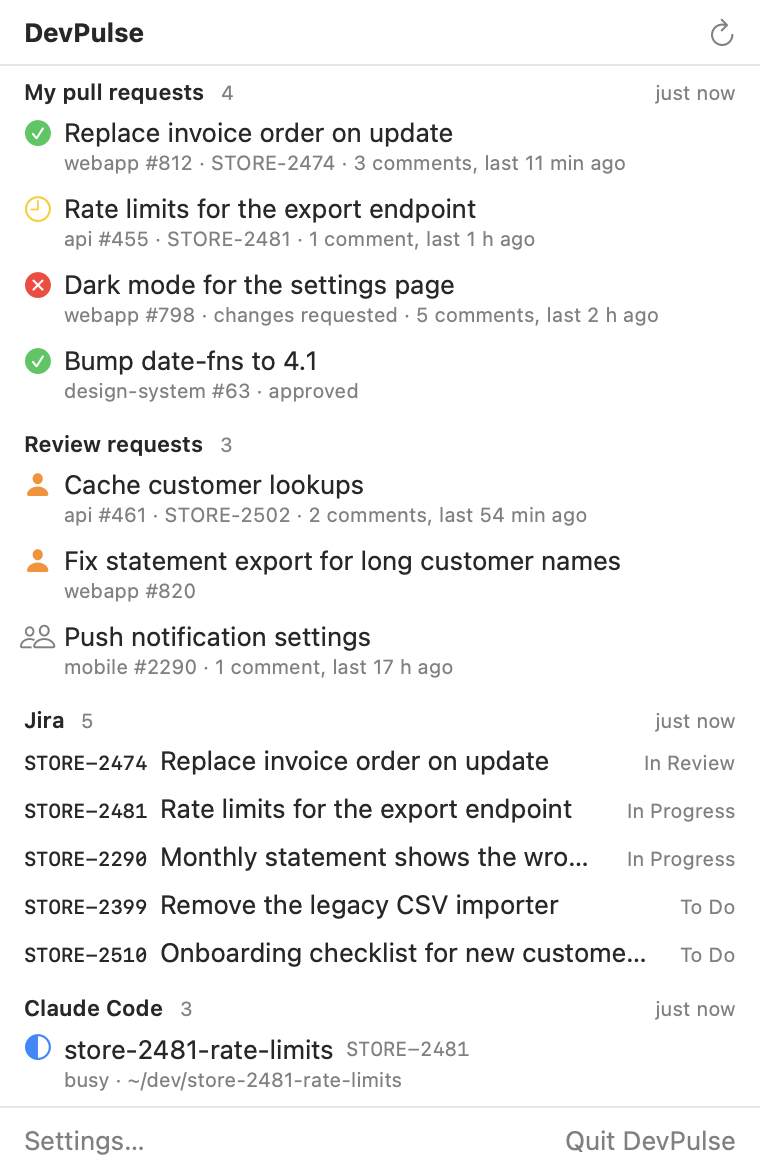
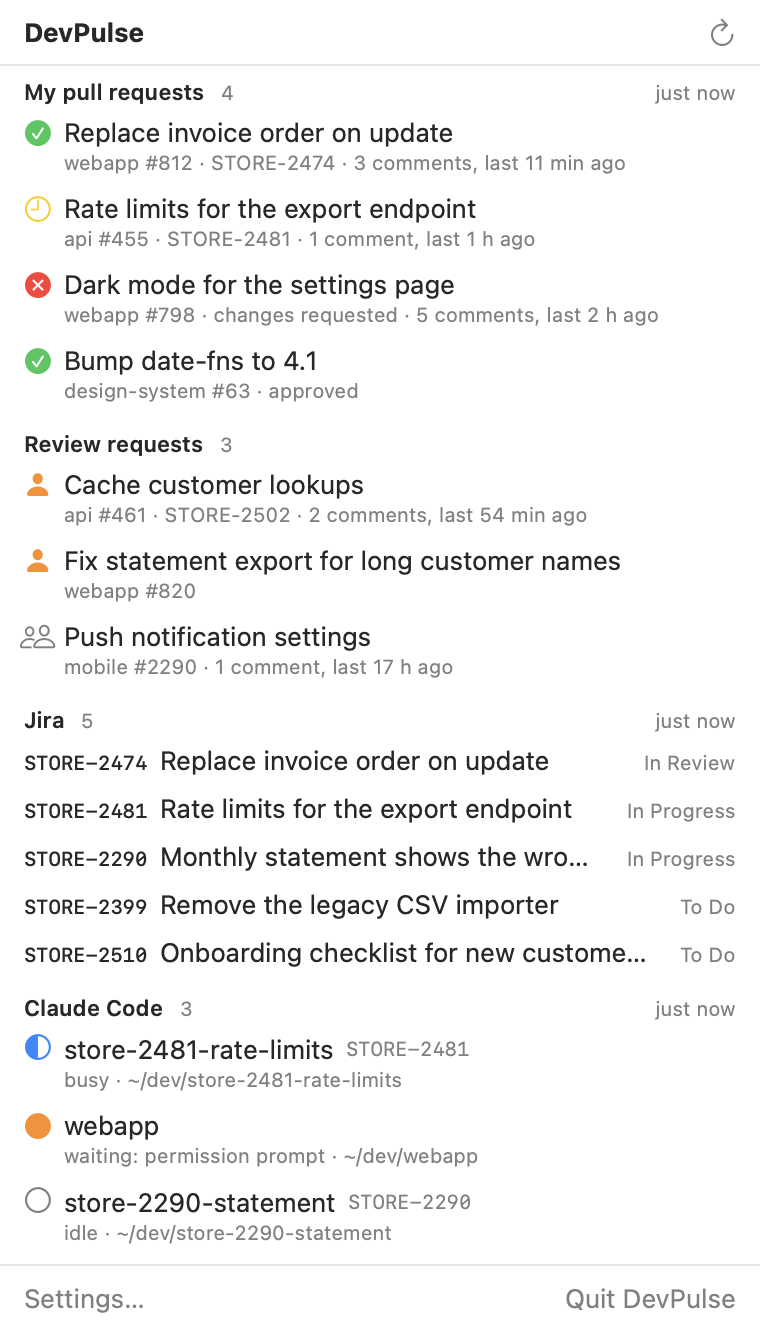
docs: the popover shows every session and Settings show the GitHub login and new footers

diff --git a/docs/cs/manual.html b/docs/cs/manual.html
@@ -202,16 +202,16 @@ gh auth login</code></pre>
         <h2>Menu bar</h2>
         <p>Ikona DevPulse je ciferník sonaru: kroužek s tečkou a krátkou čárkou. Kliknutím na ni otevřete okénko.</p>
         <figure class="fig" style="max-width:28rem">
-          <div class="view" style="--iw:760;--ih:1172">
-            <img src="../assets/manual/devpulse-popover.png" alt="Okénko DevPulse s pull requesty, žádostmi o review, tikety z Jiry a session Claude Code">
-            <span class="mark" style="--x:92.1;--y:1;--w:5.3;--h:3.4"><b>1</b></span>
-            <span class="mark" style="--x:83.7;--y:6.8;--w:13.7;--h:2.4"><b>2</b></span>
-            <span class="mark" style="--x:2.1;--y:9.7;--w:81.6;--h:5.5"><b>3</b></span>
-            <span class="mark" style="--x:2.1;--y:40.1;--w:5.8;--h:17.9"><b>4</b></span>
-            <span class="mark" style="--x:2.1;--y:63.5;--w:95.8;--h:3.2"><b>5</b></span>
-            <span class="mark" style="--x:2.1;--y:88.1;--w:62;--h:5.1"><b>6</b></span>
-            <span class="mark" style="--x:1.8;--y:95.1;--w:17.9;--h:3.8"><b>7</b></span>
-            <span class="mark" style="--x:73.4;--y:95.1;--w:25;--h:3.8"><b>8</b></span>
+          <div class="view" style="--iw:760;--ih:1330">
+            <img src="../assets/manual/devpulse-popover.png" alt="Okénko DevPulse s pull requesty, žádostmi o review, tikety z Jiry a třemi sessions Claude Code">
+            <span class="mark" style="--x:92.1;--y:0.9;--w:5.3;--h:3"><b>1</b></span>
+            <span class="mark" style="--x:83.7;--y:6;--w:13.7;--h:2.1"><b>2</b></span>
+            <span class="mark" style="--x:2.1;--y:8.5;--w:81.6;--h:4.8"><b>3</b></span>
+            <span class="mark" style="--x:2.1;--y:35.3;--w:5.8;--h:15.8"><b>4</b></span>
+            <span class="mark" style="--x:2.1;--y:56;--w:95.8;--h:2.8"><b>5</b></span>
+            <span class="mark" style="--x:2.1;--y:77.6;--w:62;--h:4.5"><b>6</b></span>
+            <span class="mark" style="--x:1.8;--y:95.7;--w:17.9;--h:3.3"><b>7</b></span>
+            <span class="mark" style="--x:73.4;--y:95.7;--w:25;--h:3.3"><b>8</b></span>
           </div>
           <figcaption>Okénko má čtyři části: My pull requests, Review requests,
           Jira a Claude Code. Když se nevejdou, dá se v nich posouvat.</figcaption>

diff --git a/docs/manual.html b/docs/manual.html
@@ -201,16 +201,16 @@ gh auth login</code></pre>
         <h2>The menu bar</h2>
         <p>The DevPulse icon is a sonar dial: a ring with a dot and a short line. Click it to open the popover.</p>
         <figure class="fig" style="max-width:28rem">
-          <div class="view" style="--iw:760;--ih:1172">
-            <img src="assets/manual/devpulse-popover.png" alt="The DevPulse popover with pull requests, review requests, Jira tickets and a Claude Code session">
-            <span class="mark" style="--x:92.1;--y:1;--w:5.3;--h:3.4"><b>1</b></span>
-            <span class="mark" style="--x:83.7;--y:6.8;--w:13.7;--h:2.4"><b>2</b></span>
-            <span class="mark" style="--x:2.1;--y:9.7;--w:81.6;--h:5.5"><b>3</b></span>
-            <span class="mark" style="--x:2.1;--y:40.1;--w:5.8;--h:17.9"><b>4</b></span>
-            <span class="mark" style="--x:2.1;--y:63.5;--w:95.8;--h:3.2"><b>5</b></span>
-            <span class="mark" style="--x:2.1;--y:88.1;--w:62;--h:5.1"><b>6</b></span>
-            <span class="mark" style="--x:1.8;--y:95.1;--w:17.9;--h:3.8"><b>7</b></span>
-            <span class="mark" style="--x:73.4;--y:95.1;--w:25;--h:3.8"><b>8</b></span>
+          <div class="view" style="--iw:760;--ih:1330">
+            <img src="assets/manual/devpulse-popover.png" alt="The DevPulse popover with pull requests, review requests, Jira tickets and three Claude Code sessions">
+            <span class="mark" style="--x:92.1;--y:0.9;--w:5.3;--h:3"><b>1</b></span>
+            <span class="mark" style="--x:83.7;--y:6;--w:13.7;--h:2.1"><b>2</b></span>
+            <span class="mark" style="--x:2.1;--y:8.5;--w:81.6;--h:4.8"><b>3</b></span>
+            <span class="mark" style="--x:2.1;--y:35.3;--w:5.8;--h:15.8"><b>4</b></span>
+            <span class="mark" style="--x:2.1;--y:56;--w:95.8;--h:2.8"><b>5</b></span>
+            <span class="mark" style="--x:2.1;--y:77.6;--w:62;--h:4.5"><b>6</b></span>
+            <span class="mark" style="--x:1.8;--y:95.7;--w:17.9;--h:3.3"><b>7</b></span>
+            <span class="mark" style="--x:73.4;--y:95.7;--w:25;--h:3.3"><b>8</b></span>
           </div>
           <figcaption>The popover has four sections: My pull requests, Review
           requests, Jira and Claude Code. It scrolls when they are long.</figcaption>
